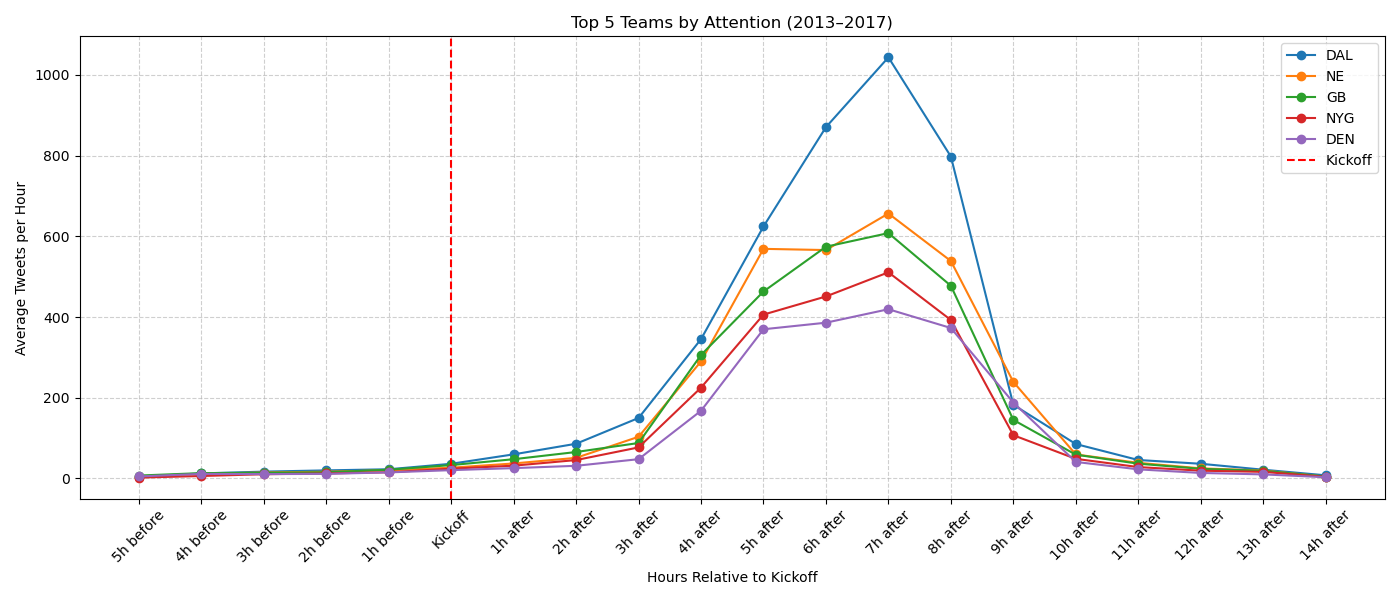
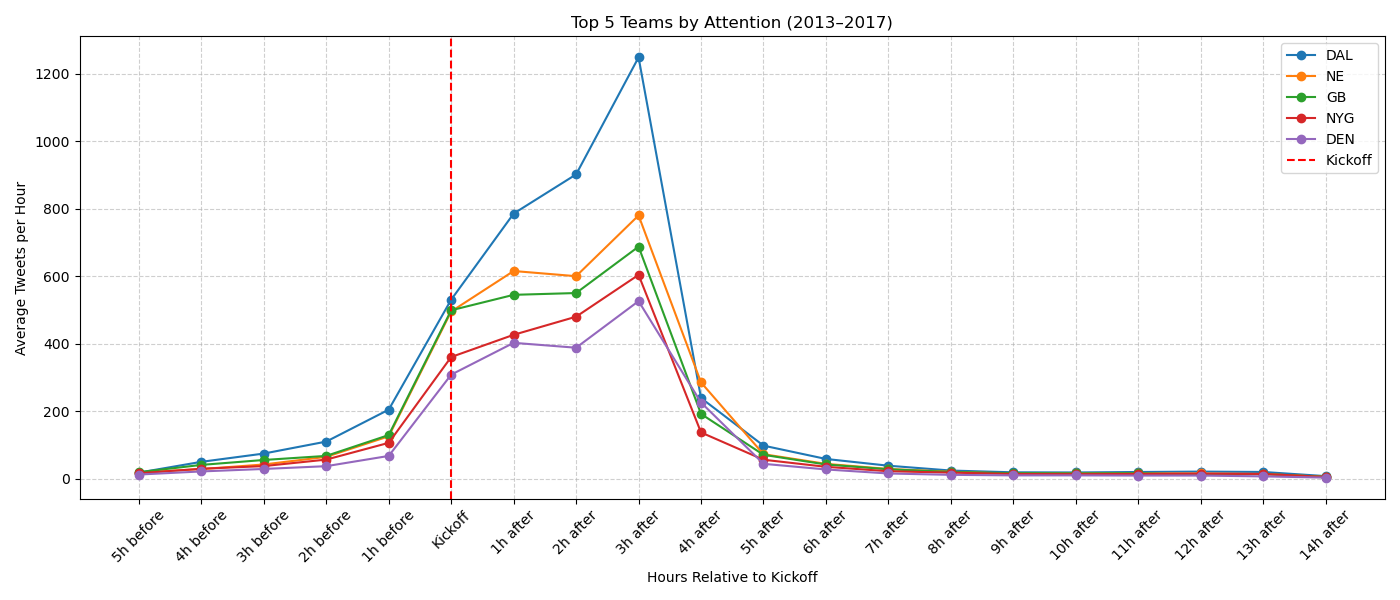
fixing time zone issue

diff --git a/code for graphs/time_windows_30min.py b/code for graphs/time_windows_30min.py
@@ -1,11 +1,11 @@
 """
 This code graphs and prints average attention of all NFL games 
-(2013-2017 seasons) per hour relative to kickoff.
-Last modified: 10/27/2025 by EK
+(2013-2017 seasons) per half hour relative to kickoff.
+Last modified: 10/15/2025 by EK
 """
 
-
 import pandas as pd
+import numpy as np
 from datetime import datetime, timedelta
 from data_mountain_query.query import get_ambient_tweets
 from data_mountain_query.connection import get_connection
@@ -14,22 +14,18 @@ import warnings
 warnings.filterwarnings("ignore", message="use an explicit session with no_cursor_timeout=True")
 
 
-
 def main():
     games = pd.read_csv("/Users/elisabethkollrack/Thesis/EK-thesis/games.csv")
+    
     # Only want regular season
     games = games[games['game_type'] == 'REG']
     games['gameday'] = pd.to_datetime(games['gameday'], format='%m/%d/%y')
 
-
     p = 1.0
     collection, client = get_connection(p=p)
 
-    # Initialize storage for 5h before kickoff to 15h after
-    times = {}
-    for time in range(-5, 15):
-        times[time] = 0
-
+    # Initialize 30-minute bins from 5 hours before to 15 hours after kickoff
+    times = {t: 0 for t in np.arange(-5, 15, 0.5)}
     num_games = 0
 
     # 2013-2017
@@ -42,12 +38,13 @@ def main():
         gameday = row['gameday']
         gametime = row['gametime']
 
+        # Localize kickoff as EST (DST-aware)
         kickoff = pd.to_datetime(str(gameday.date()) + " " + str(gametime))
         kickoff = kickoff.tz_localize('US/Eastern')
 
         start_time = kickoff - timedelta(hours=5)
         end_time = kickoff + timedelta(hours=15)
-        dates = pd.date_range(start_time, end_time, freq='h')
+        dates = pd.date_range(start_time, end_time, freq='30min')
 
         anchors = [f"#{away}vs{home}", f"#{home}vs{away}"]
 
@@ -56,39 +53,42 @@ def main():
         for anchor in anchors:
             tweets.extend([t for t in get_ambient_tweets(anchor, dates, collection)])
 
-        # if no tweets are found
+        # if no tweets are found, skip this game
         if not tweets:
             continue
 
         tweets_df = pd.DataFrame(tweets)
+
+        # Convert tweet timestamps from GMT/UTC to EST with DST handling
         tweets_df['tweet_created_at'] = pd.to_datetime(tweets_df['tweet_created_at'], utc=True)
         tweets_df['tweet_created_at'] = tweets_df['tweet_created_at'].dt.tz_convert('US/Eastern')
-        tweets_df['hour'] = tweets_df['tweet_created_at'].dt.floor('h')
 
+        # Bin into 30-minute intervals
+        tweets_df['time_bin'] = tweets_df['tweet_created_at'].dt.floor('30min')
 
-        # Group by hour
-        hourly_counts = tweets_df.groupby('hour').size().reset_index(name='count')
-        hourly_dict = dict(zip(hourly_counts['hour'], hourly_counts['count']))
+        # Group by 30-minute interval
+        half_hour_counts = tweets_df.groupby('time_bin').size().reset_index(name='count')
+        count_dict = dict(zip(half_hour_counts['time_bin'], half_hour_counts['count']))
 
-        # Align tweet counts relative to kickoff
-        for time in range(-5, 15):
-            time_point = kickoff + timedelta(hours=time)
-            count = hourly_dict.get(time_point.floor('h'), 0)
-            times[time] += count
+        # Align counts relative to kickoff
+        for t in times.keys():
+            time_point = kickoff + timedelta(hours=t)
+            count = count_dict.get(time_point.floor('30min'), 0)
+            times[t] += count
 
         num_games += 1
 
-    # Compute average tweets per hour 
-    avg_tweets_hour = {time: times[time] / num_games for time in times}
+    # Compute average attention per half hour
+    avg_tweets_half_hour = {t: times[t] / num_games for t in times}
 
     # Convert to DataFrame for plotting
-    attention_times = pd.DataFrame(list(avg_tweets_hour.items()), columns=['times', 'avg_tweets'])
+    attention_times = pd.DataFrame(list(avg_tweets_half_hour.items()), columns=['times', 'avg_tweets'])
     attention_times = attention_times.sort_values('times')
 
     # Print results
-    print("\n=== Average Attention Relative to Kickoff (All Games 2013–2017) ===")
+    print("\n=== Average Attention Relative to Kickoff (All Games 2013–2017, 30-minute intervals) ===")
     print("Label | Avg Tweet Count")
-    for time, avg in avg_tweets_hour.items():
+    for time, avg in avg_tweets_half_hour.items():
         if time == 0:
             label = "Kickoff"
         elif time < 0:
@@ -97,16 +97,14 @@ def main():
             label = f"{time}h after"
         print(f"{label:>10} | {avg:.2f}")
 
-
     # Plot the attention curve
     plt.figure(figsize=(10, 6))
-    plt.plot(attention_times['times'], attention_times['avg_tweets'], marker='o', color='blue', linewidth=2)
+    plt.plot(attention_times['times'], attention_times['avg_tweets'], marker='o', linewidth=2)
 
-    plt.axvline(0, color='red', linestyle='--', linewidth=1.5, label='Kickoff')
-    plt.axvline(3.2, color='red', linestyle='--', linewidth=1.5, label='Avg. Game End Time')
-    plt.title("Average Attention Around Kickoff (2013–2017)")
+    plt.axvline(0, linestyle='--', linewidth=1.5, label='Kickoff')
+    plt.title("Average Attention Around Kickoff (2013–2017, 30-minute intervals)")
     plt.xlabel("Hours Relative to Kickoff")
-    plt.ylabel("Average Tweets per Hour")
+    plt.ylabel("Average Tweets per Half Hour")
     plt.grid(True, linestyle='--', alpha=0.6)
     plt.legend()
     plt.tight_layout()

diff --git a/code for graphs/ranking_attention.py b/code for graphs/ranking_attention.py
@@ -1,7 +1,7 @@
 """
 This code ranks the 30 NFL teams by average attention
 It also graphs the top 5 teams
-Last Modified 10/15/2025 by EK
+Last Modified 10/27/2025 by EK
 """
 
 import pandas as pd
@@ -37,6 +37,7 @@ def main():
         gametime = row['gametime']
 
         kickoff = pd.to_datetime(str(gameday.date()) + " " + str(gametime))
+        kickoff = kickoff.tz_localize('US/Eastern')
 
         start_time = kickoff - timedelta(hours=5)
         end_time = kickoff + timedelta(hours=14)
@@ -53,7 +54,8 @@ def main():
             continue
 
         tweets_df = pd.DataFrame(tweets)
-        tweets_df['tweet_created_at'] = pd.to_datetime(tweets_df['tweet_created_at'])
+        tweets_df['tweet_created_at'] = pd.to_datetime(tweets_df['tweet_created_at'], utc=True)
+        tweets_df['tweet_created_at'] = tweets_df['tweet_created_at'].dt.tz_convert('US/Eastern')
         tweets_df['hour'] = tweets_df['tweet_created_at'].dt.floor('h')
 
         # Group by hour
